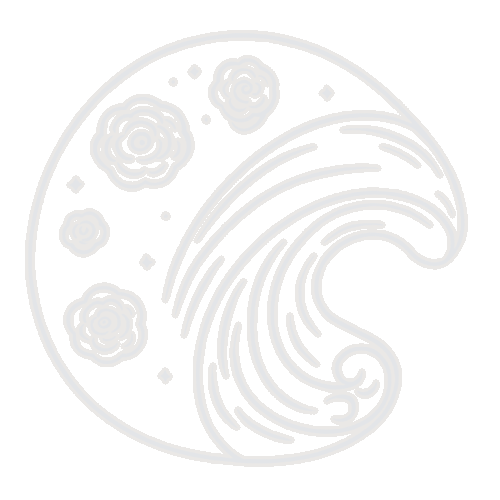
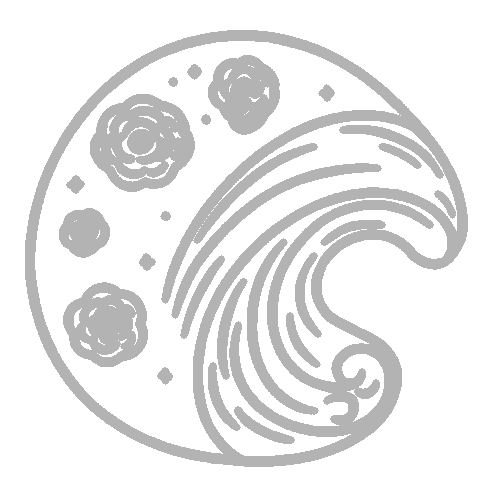
feat: modify the color palette

Changed region(s): [[0.03, 0.06, 0.96, 0.96], [0.12, 0.42, 0.24, 0.54], [0.33, 0.15, 0.36, 0.18]]

diff --git a/src/components/Backing.svelte b/src/components/Backing.svelte
@@ -12,14 +12,12 @@
     return `hsl(${h},${s}%,${l}%)`;
   }
 
-  function randomGradient(index: number, total: number) {
-    const hueOffset = (index / total) * 360;
-    const from = [(250 + hueOffset) % 360, 80, 50];
-    const via = [(180 + hueOffset) % 360, 80, 50];
-    const to = [(270 + hueOffset) % 360, 80, 50];
-    const angle = (index * (360 / total)) % 360;
-    return { from, via, to, angle };
-  }
+  const randomGradient = (index: number, total: number) => ({
+    from: [250 + Math.random() * 30, 60, 15 + Math.random() * 10],
+    via: [200 + Math.random() * 25, 45, 21 + Math.random() * 10],
+    to: [270 + Math.random() * 30, 70, 25 + Math.random() * 10],
+    angle: (index * (360 / total) + Math.random() * 20) % 360,
+  });
 
   let gradients = Array.from({ length: layers }, (_, i) => randomGradient(i, layers));
 
